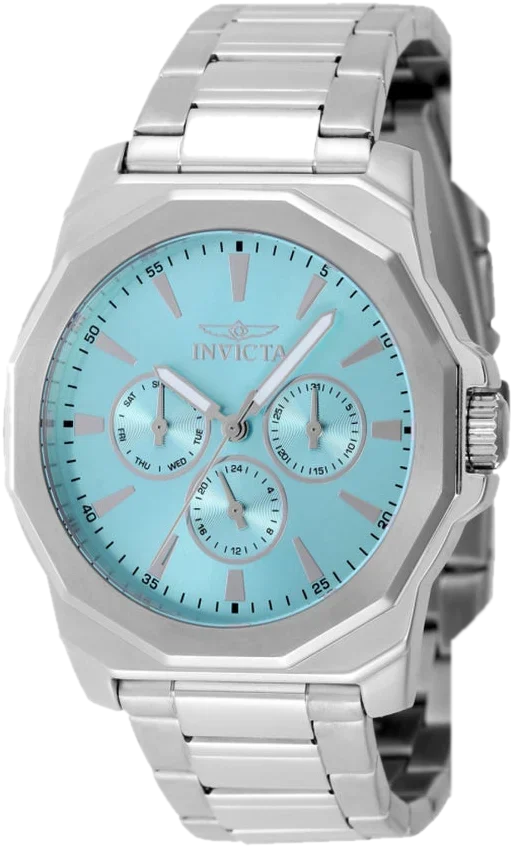
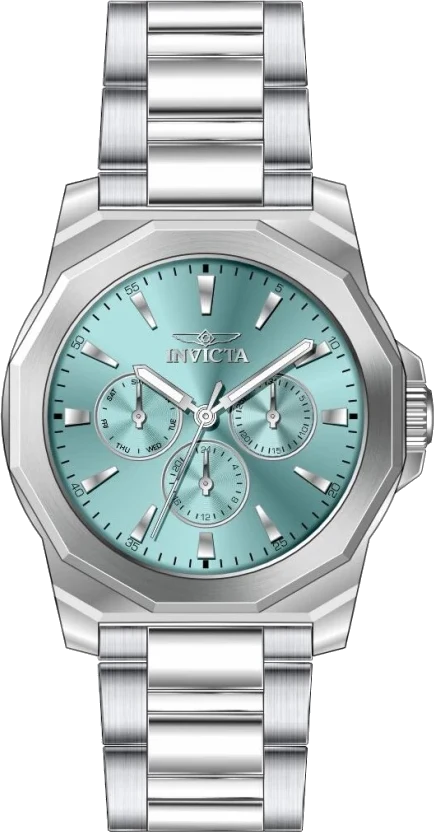
Probador con vistas frontales oficiales de invictawatch.com para 29 de los 30 relojes
Claude-Session: https://claude.ai/code/session_01HyMx4Y3Kya21ujQZt6EkED

diff --git a/relojes-invicta/js/probador-datos.js b/relojes-invicta/js/probador-datos.js
@@ -80,58 +80,58 @@ export const RELOJES_PROBADOR = [
  {
   "id": "pro-diver-44716",
   "foto": "img/probador/pro-diver-44716.webp",
-  "ajuste": 1.086,
-  "cx": 0.469,
-  "cy": 0.502
+  "ajuste": 1.085,
+  "cx": 0.459,
+  "cy": 0.5
  },
  {
   "id": "pro-diver-44715",
   "foto": "img/probador/pro-diver-44715.webp",
-  "ajuste": 1.117,
-  "cx": 0.453,
-  "cy": 0.501
+  "ajuste": 1.087,
+  "cx": 0.459,
+  "cy": 0.499
  },
  {
   "id": "pro-diver-44713",
   "foto": "img/probador/pro-diver-44713.webp",
-  "ajuste": 1.059,
-  "cx": 0.487,
-  "cy": 0.454
+  "ajuste": 1.087,
+  "cx": 0.459,
+  "cy": 0.499
  },
  {
   "id": "pro-diver-26972",
   "foto": "img/probador/pro-diver-26972.webp",
-  "ajuste": 1.114,
-  "cx": 0.454,
-  "cy": 0.501
+  "ajuste": 1.104,
+  "cx": 0.452,
+  "cy": 0.494
  },
  {
   "id": "pro-diver-30026",
   "foto": "img/probador/pro-diver-30026.webp",
-  "ajuste": 1.065,
-  "cx": 0.476,
-  "cy": 0.501
+  "ajuste": 1.088,
+  "cx": 0.458,
+  "cy": 0.5
  },
  {
   "id": "pro-diver-51147",
   "foto": "img/probador/pro-diver-51147.webp",
-  "ajuste": 1.092,
-  "cx": 0.466,
-  "cy": 0.505
+  "ajuste": 1.1,
+  "cx": 0.453,
+  "cy": 0.5
  },
  {
   "id": "pro-diver-51146",
   "foto": "img/probador/pro-diver-51146.webp",
-  "ajuste": 1.092,
-  "cx": 0.466,
-  "cy": 0.505
+  "ajuste": 1.101,
+  "cx": 0.453,
+  "cy": 0.499
  },
  {
   "id": "pro-diver-33944",
   "foto": "img/probador/pro-diver-33944.webp",
-  "ajuste": 1.089,
-  "cx": 0.466,
-  "cy": 0.495
+  "ajuste": 1.087,
+  "cx": 0.458,
+  "cy": 0.5
  },
  {
   "id": "pro-diver-8929",
@@ -143,9 +143,9 @@ export const RELOJES_PROBADOR = [
  {
   "id": "pro-diver-8930obxl",
   "foto": "img/probador/pro-diver-8930obxl.webp",
-  "ajuste": 1.058,
-  "cx": 0.481,
-  "cy": 0.496
+  "ajuste": 1.095,
+  "cx": 0.457,
+  "cy": 0.499
  },
  {
   "id": "bolt-24215",
@@ -185,23 +185,23 @@ export const RELOJES_PROBADOR = [
  {
   "id": "speedway-46841",
   "foto": "img/probador/speedway-46841.webp",
-  "ajuste": 1.038,
-  "cx": 0.485,
-  "cy": 0.504
+  "ajuste": 1.059,
+  "cx": 0.471,
+  "cy": 0.499
  },
  {
   "id": "speedway-46856",
   "foto": "img/probador/speedway-46856.webp",
-  "ajuste": 1.036,
-  "cx": 0.489,
+  "ajuste": 1.059,
+  "cx": 0.473,
   "cy": 0.499
  },
  {
   "id": "speedway-48913",
   "foto": "img/probador/speedway-48913.webp",
-  "ajuste": 1.056,
-  "cx": 0.499,
-  "cy": 0.484
+  "ajuste": 1.06,
+  "cx": 0.472,
+  "cy": 0.5
  },
  {
   "id": "speedway-50883",
@@ -220,71 +220,71 @@ export const RELOJES_PROBADOR = [
  {
   "id": "speedway-48079",
   "foto": "img/probador/speedway-48079.webp",
-  "ajuste": 1.071,
-  "cx": 0.473,
-  "cy": 0.507
+  "ajuste": 1.092,
+  "cx": 0.46,
+  "cy": 0.498
  },
  {
   "id": "racing-50755",
   "foto": "img/probador/racing-50755.webp",
-  "ajuste": 1.066,
-  "cx": 0.477,
-  "cy": 0.494
+  "ajuste": 1.069,
+  "cx": 0.467,
+  "cy": 0.499
  },
  {
   "id": "racing-50756",
   "foto": "img/probador/racing-50756.webp",
-  "ajuste": 1.066,
-  "cx": 0.477,
-  "cy": 0.494
+  "ajuste": 1.067,
+  "cx": 0.467,
+  "cy": 0.498
  },
  {
   "id": "racing-50754",
   "foto": "img/probador/racing-50754.webp",
-  "ajuste": 1.066,
-  "cx": 0.477,
-  "cy": 0.494
+  "ajuste": 1.069,
+  "cx": 0.466,
+  "cy": 0.499
  },
  {
   "id": "specialty-47405",
   "foto": "img/probador/specialty-47405.webp",
-  "ajuste": 1.065,
-  "cx": 0.504,
-  "cy": 0.462
+  "ajuste": 1.069,
+  "cx": 0.468,
+  "cy": 0.499
  },
  {
   "id": "specialty-47398",
   "foto": "img/probador/specialty-47398.webp",
-  "ajuste": 1.099,
-  "cx": 0.51,
-  "cy": 0.472
+  "ajuste": 1.067,
+  "cx": 0.469,
+  "cy": 0.499
  },
  {
   "id": "specialty-47406",
   "foto": "img/probador/specialty-47406.webp",
-  "ajuste": 1.115,
-  "cx": 0.523,
-  "cy": 0.475
+  "ajuste": 1.069,
+  "cx": 0.468,
+  "cy": 0.499
  },
  {
   "id": "specialty-48292",
   "foto": "img/probador/specialty-48292.webp",
-  "ajuste": 1.055,
-  "cx": 0.487,
-  "cy": 0.494
+  "ajuste": 1.079,
+  "cx": 0.465,
+  "cy": 0.499
  },
  {
   "id": "vintage-48011",
   "foto": "img/probador/vintage-48011.webp",
-  "ajuste": 1.111,
-  "cx": 0.457,
-  "cy": 0.51
+  "ajuste": 1.136,
+  "cx": 0.446,
+  "cy": 0.493
  },
  {
   "id": "vintage-48010",
   "foto": "img/probador/vintage-48010.webp",
-  "ajuste": 1.111,
-  "cx": 0.457,
-  "cy": 0.51
+  "ajuste": 1.136,
+  "cx": 0.446,
+  "cy": 0.493
  }
 ];

diff --git a/relojes-invicta/README.md b/relojes-invicta/README.md
@@ -11,7 +11,7 @@ Tienda web para hombres de 18 a 50 años. Incluye catálogo de 30 modelos (80 % 
 | **Catálogo** | 30 relojes de invicta.com.pe con filtros (línea, deportivo/formal, automático, ofertas), búsqueda, orden y favoritos. |
 | **Black Friday** | De 15 % a 40 % automático por modelo, sin cupón. Termina el 30/11 a las 23:59 (hora de Lima). |
 | **Cupones** | `BIENVENIDA10` (10 %), `TIEMPO15` (15 % desde S/ 600) y `LUJO20` (20 % desde S/ 1,000). Se suman al Black Friday. |
-| **Probador** | Fotos reales de muñeca en 10 tonos de piel (de claro a oscuro, `img/munecas/`) con la foto frontal real del reloj encima, a escala según los mm de la caja y la medida de muñeca. Incluye prueba con cámara o foto propia y opción de compartir la imagen. Los 30 modelos se pueden probar (`js/probador-datos.js`, fotos en `img/probador/`). |
+| **Probador** | Fotos reales de muñeca en 10 tonos de piel (de claro a oscuro, `img/munecas/`) con la foto frontal real del reloj encima, a escala según los mm de la caja y la medida de muñeca. Incluye prueba con cámara o foto propia y opción de compartir la imagen. Los 30 modelos se pueden probar (`js/probador-datos.js`, fotos en `img/probador/`). 29 usan la vista frontal oficial de invictawatch.com; el Speedway 50883 usa su foto principal sin la parte trasera del brazalete. |
 | **Compra** | Separas con S/ 20 y pagas el saldo al recoger en agencia (Shalom, Olva, Marvisur, Flores o Cruz del Sur). El pedido se registra con un código y abre WhatsApp con el mensaje listo. |
 | **Concierge IA** | Responde dudas y recomienda relojes. Sin clave de IA funciona con las preguntas frecuentes. |
 | **Panel `/admin.html`** | Resumen de ventas, pedidos con estados, CRM de clientes (etiquetas y notas), productos (precio, % Black Friday y foto) y cupones. Exporta a CSV. |
